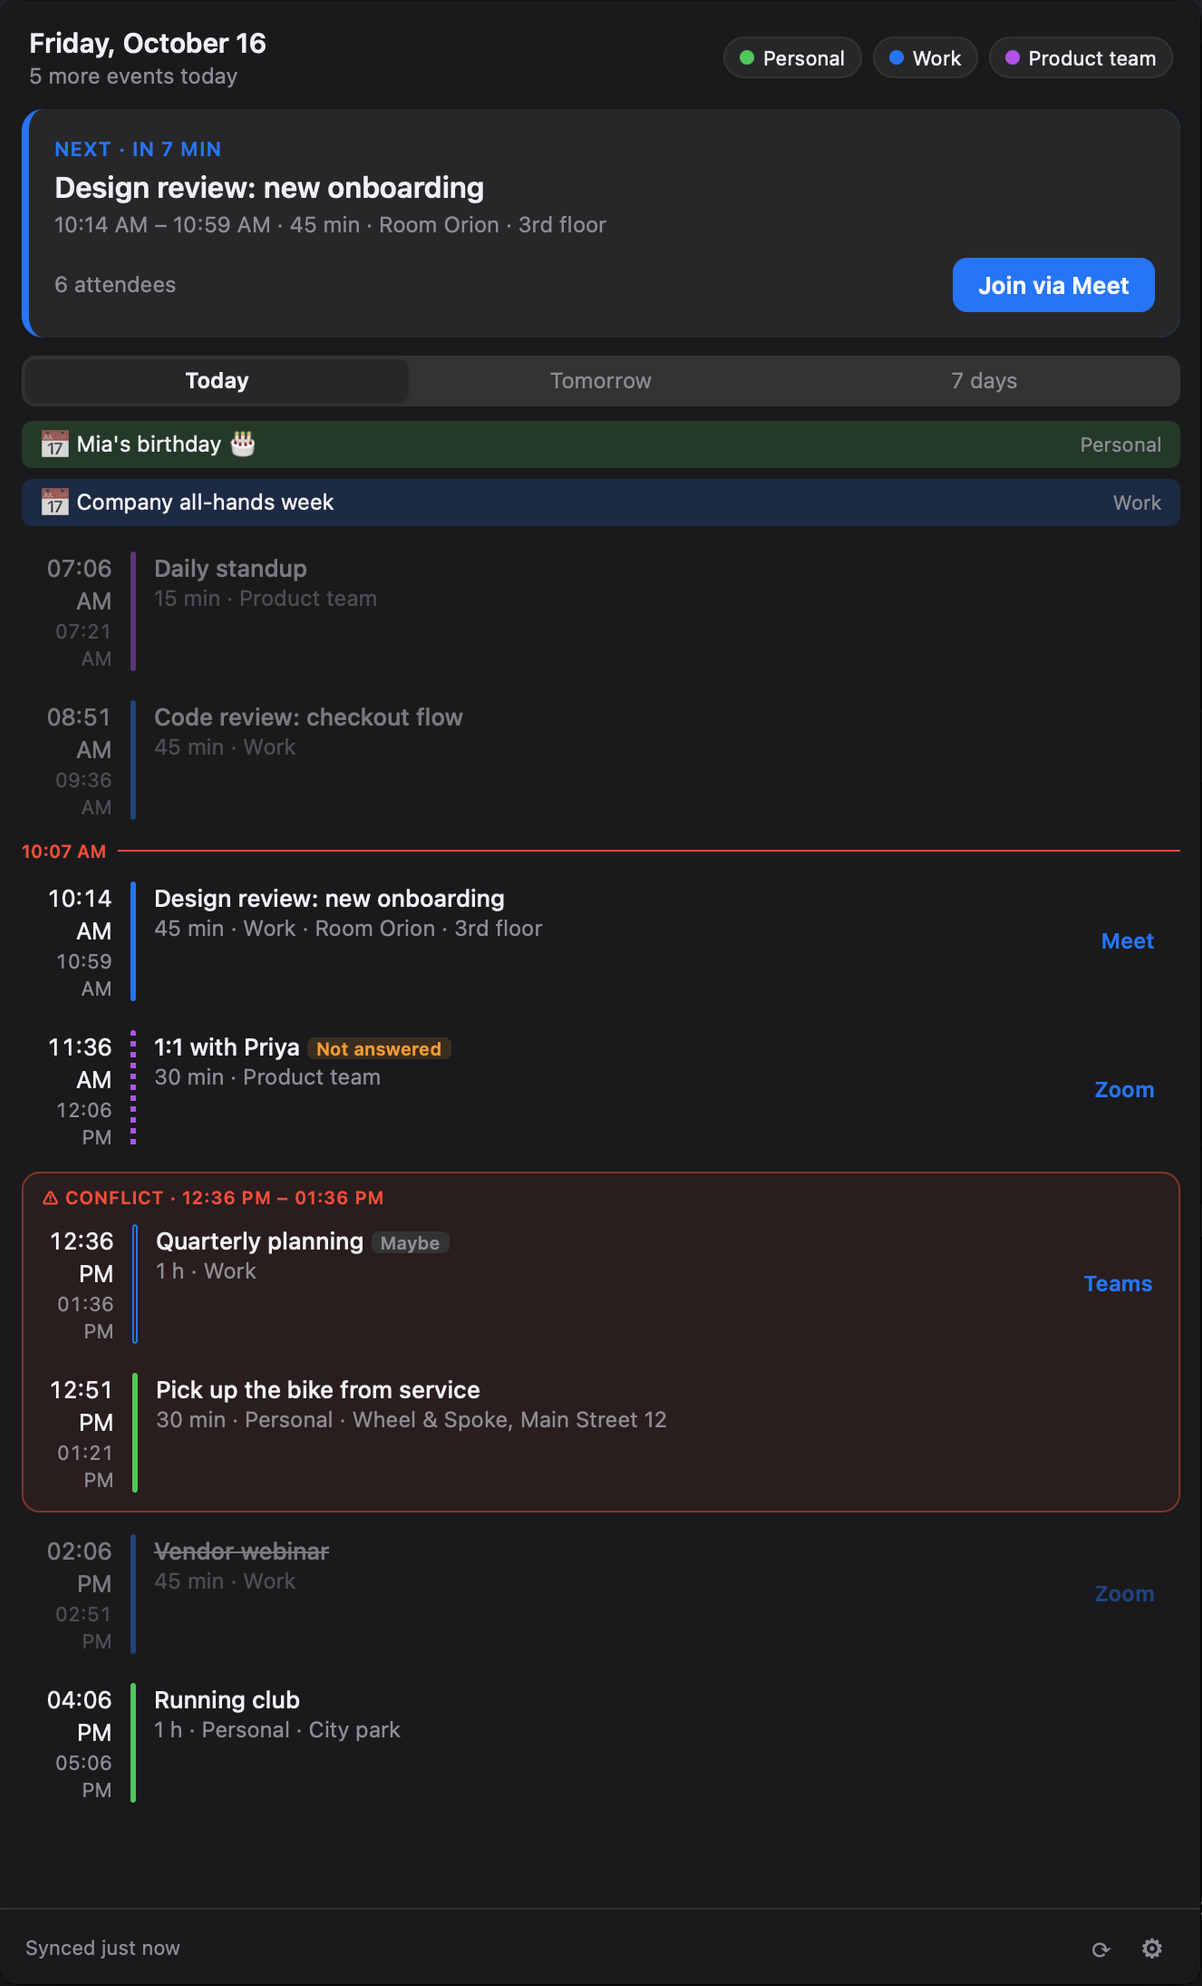
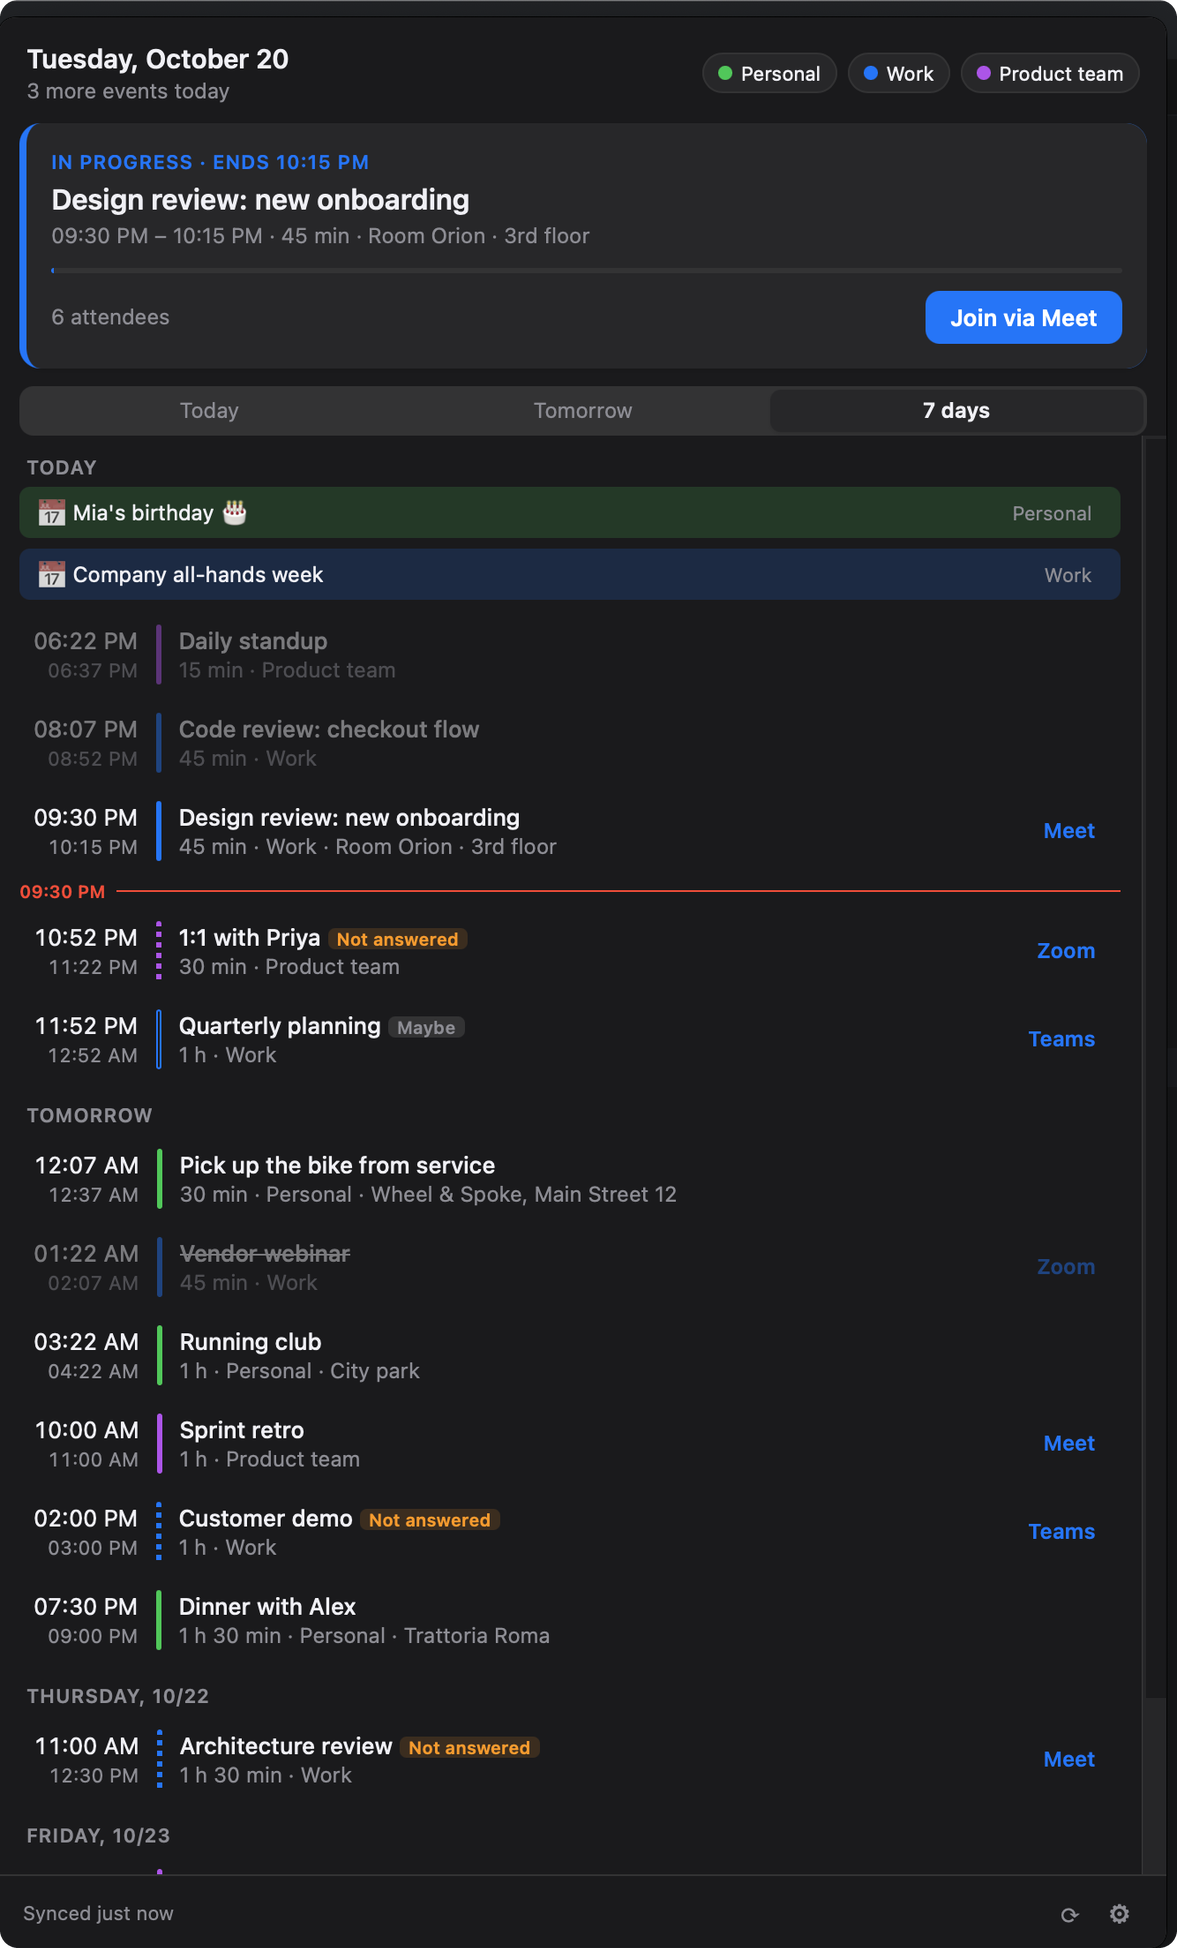
Refresh website and README screenshots, add the alert
New showcase screenshots of the popup (7-day view) and the menu bar, and
a picture of the meeting-start alert on the website and in the README,
so the feature the app is named for is visible before installing.
The menu bar strip shows the icon-and-title style with other status
items removed; the popup has the scrollbar retouched out.

diff --git a/docs/index.html b/docs/index.html
@@ -23,12 +23,12 @@
       <p><a class="button" href="https://github.com/mkelcik/do-not-forget/releases/latest">Download</a></p>
       <p class="brew">or on macOS: <code>brew install --cask mkelcik/tap/do-not-forget</code></p>
       <figure class="menubar">
-        <img src="menubar.png" width="262" height="31" alt="The macOS menu bar showing “Design review… · in 6 min”">
+        <img src="menubar.png" width="293" height="29" alt="The macOS menu bar showing “Design review… · in progress until 22:15”">
         <figcaption>The next meeting and its countdown, always in the menu bar.</figcaption>
       </figure>
     </div>
-    <img class="shot" src="screenshot.png" width="601" height="993"
-      alt="The agenda: the next meeting with a Join via Meet button, all-day events, today's meetings with Meet, Zoom and Teams links, an unanswered invitation, a scheduling conflict and a declined event">
+    <img class="shot" src="screenshot.png" width="662" height="1095"
+      alt="The agenda: the meeting in progress with a Join via Meet button, all-day events, the next 7 days of meetings with Meet, Zoom and Teams links, unanswered invitations and a declined event">
   </section>
 
   <h2>What it does</h2>
@@ -40,6 +40,14 @@
     <li><b>Reminders</b><span>A notification before each meeting and a full-screen alert when it starts.</span></li>
     <li><b>Mute</b><span>Silence reminders for an hour, for the day, or until you turn them back on.</span></li>
   </ul>
+
+  <h2>When a meeting starts</h2>
+  <p>If the reminder went unnoticed, the alert takes the whole screen: the meeting, where it is,
+    who is coming, and one button to join. Answer the invitation right there.</p>
+  <figure class="alert">
+    <img src="alert.png" width="700" height="394"
+      alt="The meeting-start alert: “Design review: new onboarding” with time, room and organizer, a Join via Meet button, and a panel with the RSVP choice, description and attendees">
+  </figure>
 
   <h2>How it uses your Google data</h2>
   <p>When you connect a Google account, Do Not Forget asks to see and respond to your calendar

diff --git a/docs/style.css b/docs/style.css
@@ -26,6 +26,8 @@ h2 { font-size: 21px; margin: 36px 0 8px; }
 .menubar { margin: 28px 0 0; }
 .menubar img { display: block; max-width: 100%; height: auto; border-radius: 8px; }
 .menubar figcaption { color: var(--muted); font-size: 14px; margin-top: 6px; }
+.alert { margin: 16px 0 0; }
+.alert img { display: block; width: 100%; height: auto; border-radius: 14px; box-shadow: 0 12px 40px rgba(0, 0, 0, .25); }
 @media (max-width: 760px) {
   .hero { grid-template-columns: 1fr; gap: 0; }
   .hero .shot { max-width: 360px; justify-self: center; }

diff --git a/README.md b/README.md
@@ -8,8 +8,9 @@ A tray app for Linux, macOS and Windows that keeps your next meeting one glance 
 in the spirit of [MeetingBar](https://github.com/leits/MeetingBar).
 Website: <https://mkelcik.github.io/do-not-forget/>
 
-<img src="docs/screenshot.png" width="360" alt="The agenda with the next meeting, Meet, Zoom and Teams links, an unanswered invitation and a conflict">
-<img src="docs/menubar.png" width="262" alt="The macOS menu bar: “Design review… · in 6 min”">
+<img src="docs/screenshot.png" width="360" alt="The agenda with the meeting in progress, Meet, Zoom and Teams links, unanswered invitations and a declined event">
+<img src="docs/menubar.png" width="293" alt="The macOS menu bar: “Design review… · in progress until 22:15”">
+<img src="docs/alert.png" width="700" alt="The meeting-start alert: title, time, room, organizer, a Join via Meet button and a panel with RSVP, description and attendees">
 
 - **Next meeting in the tray**: hover for title, calendar and countdown; click for the agenda.
 - **Google Calendar**, several accounts at once: today, tomorrow and the next 7 days merged into one list,
